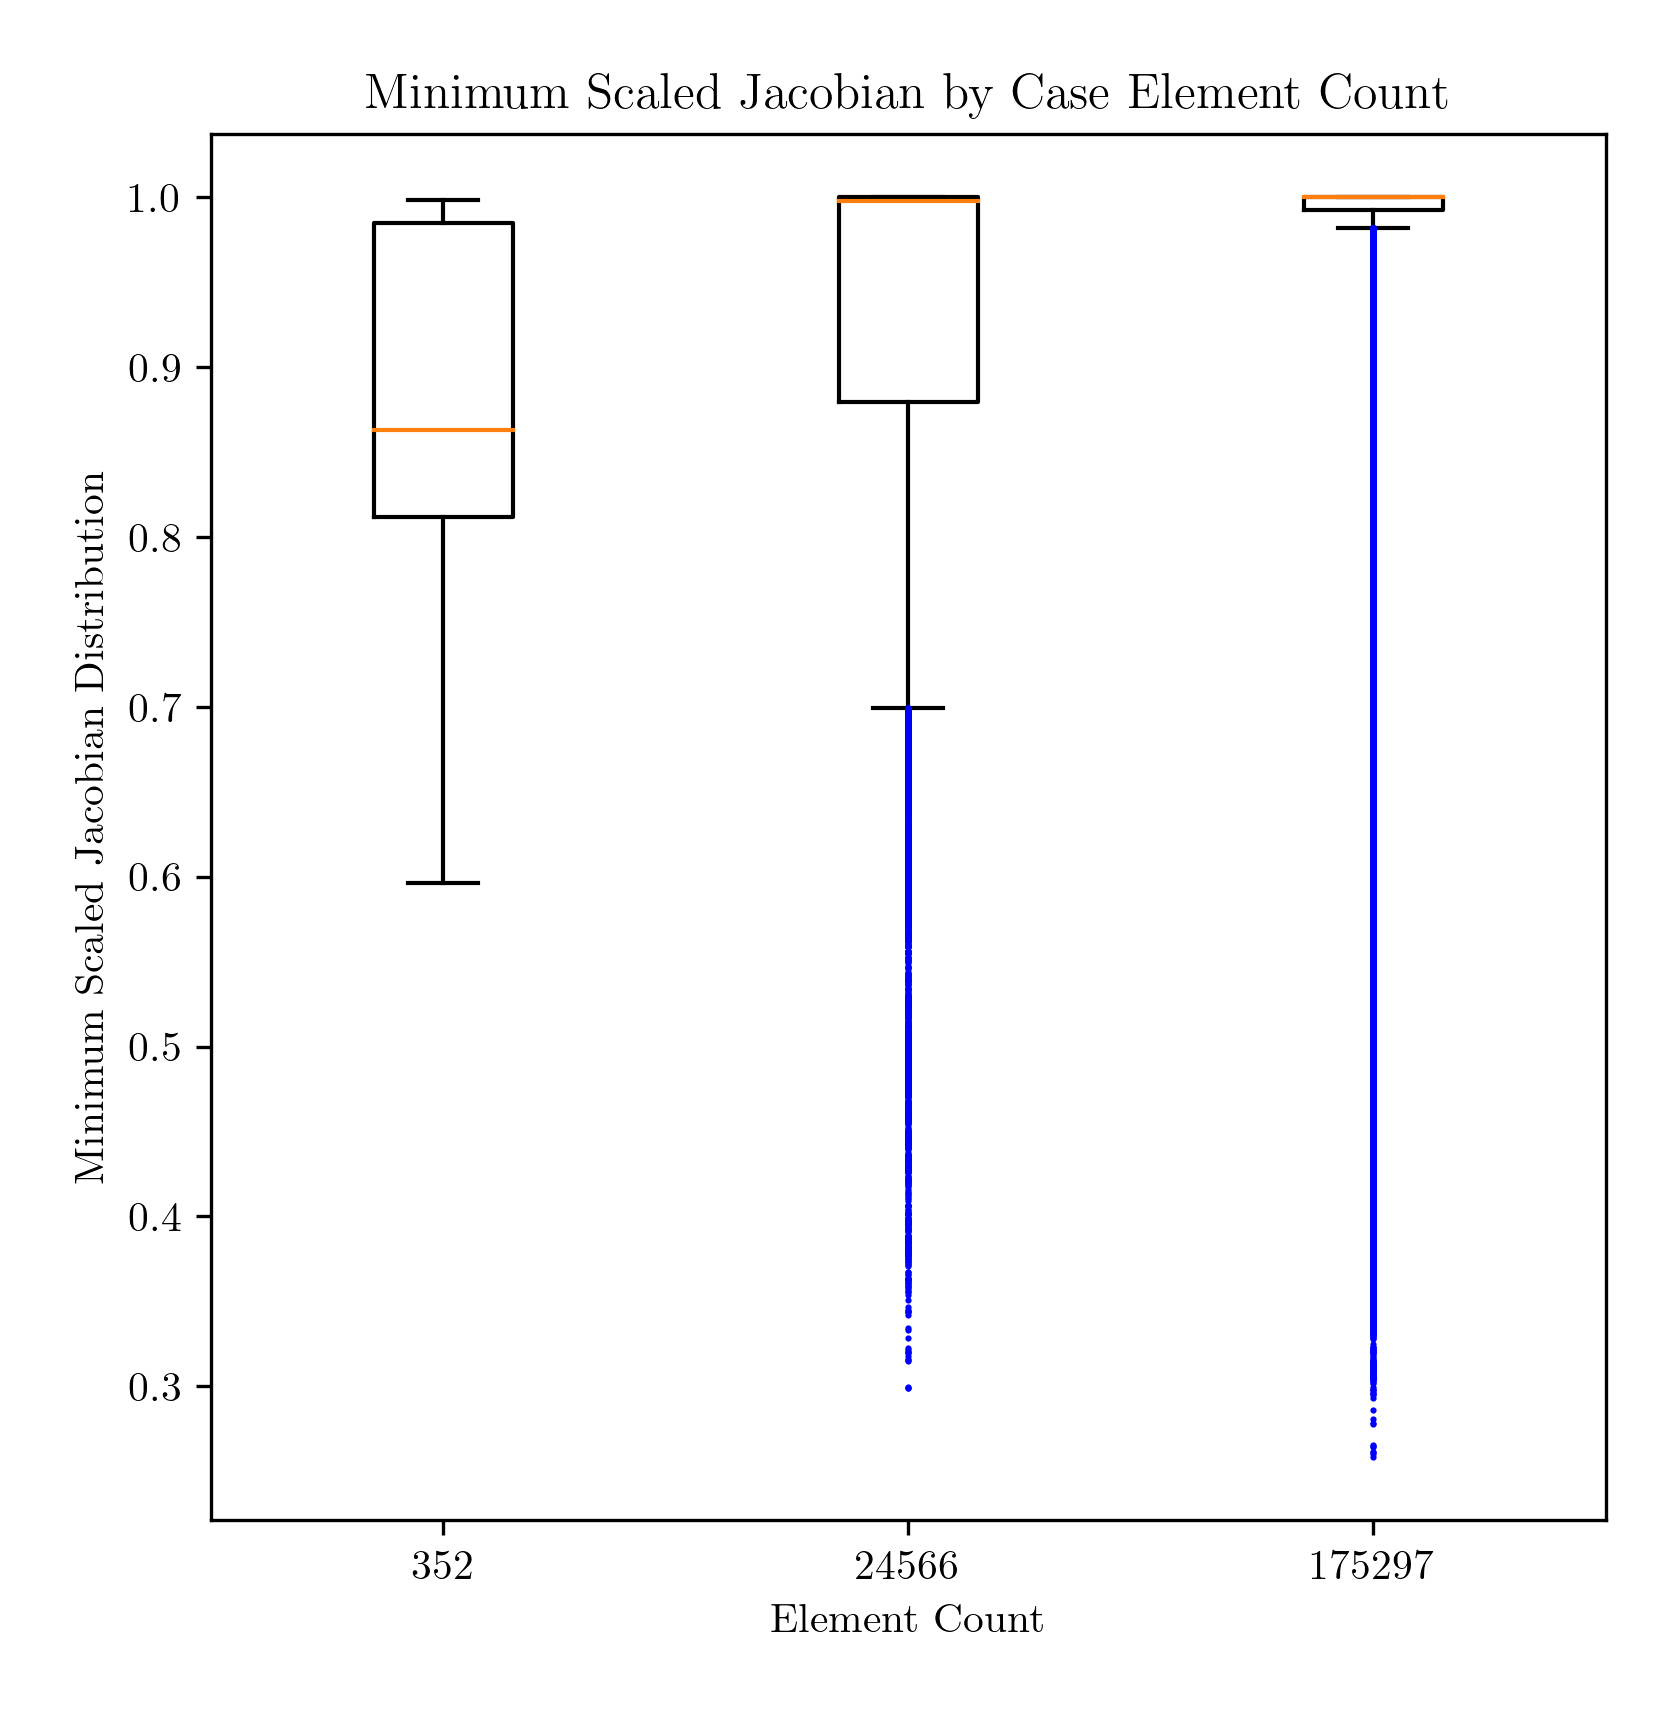
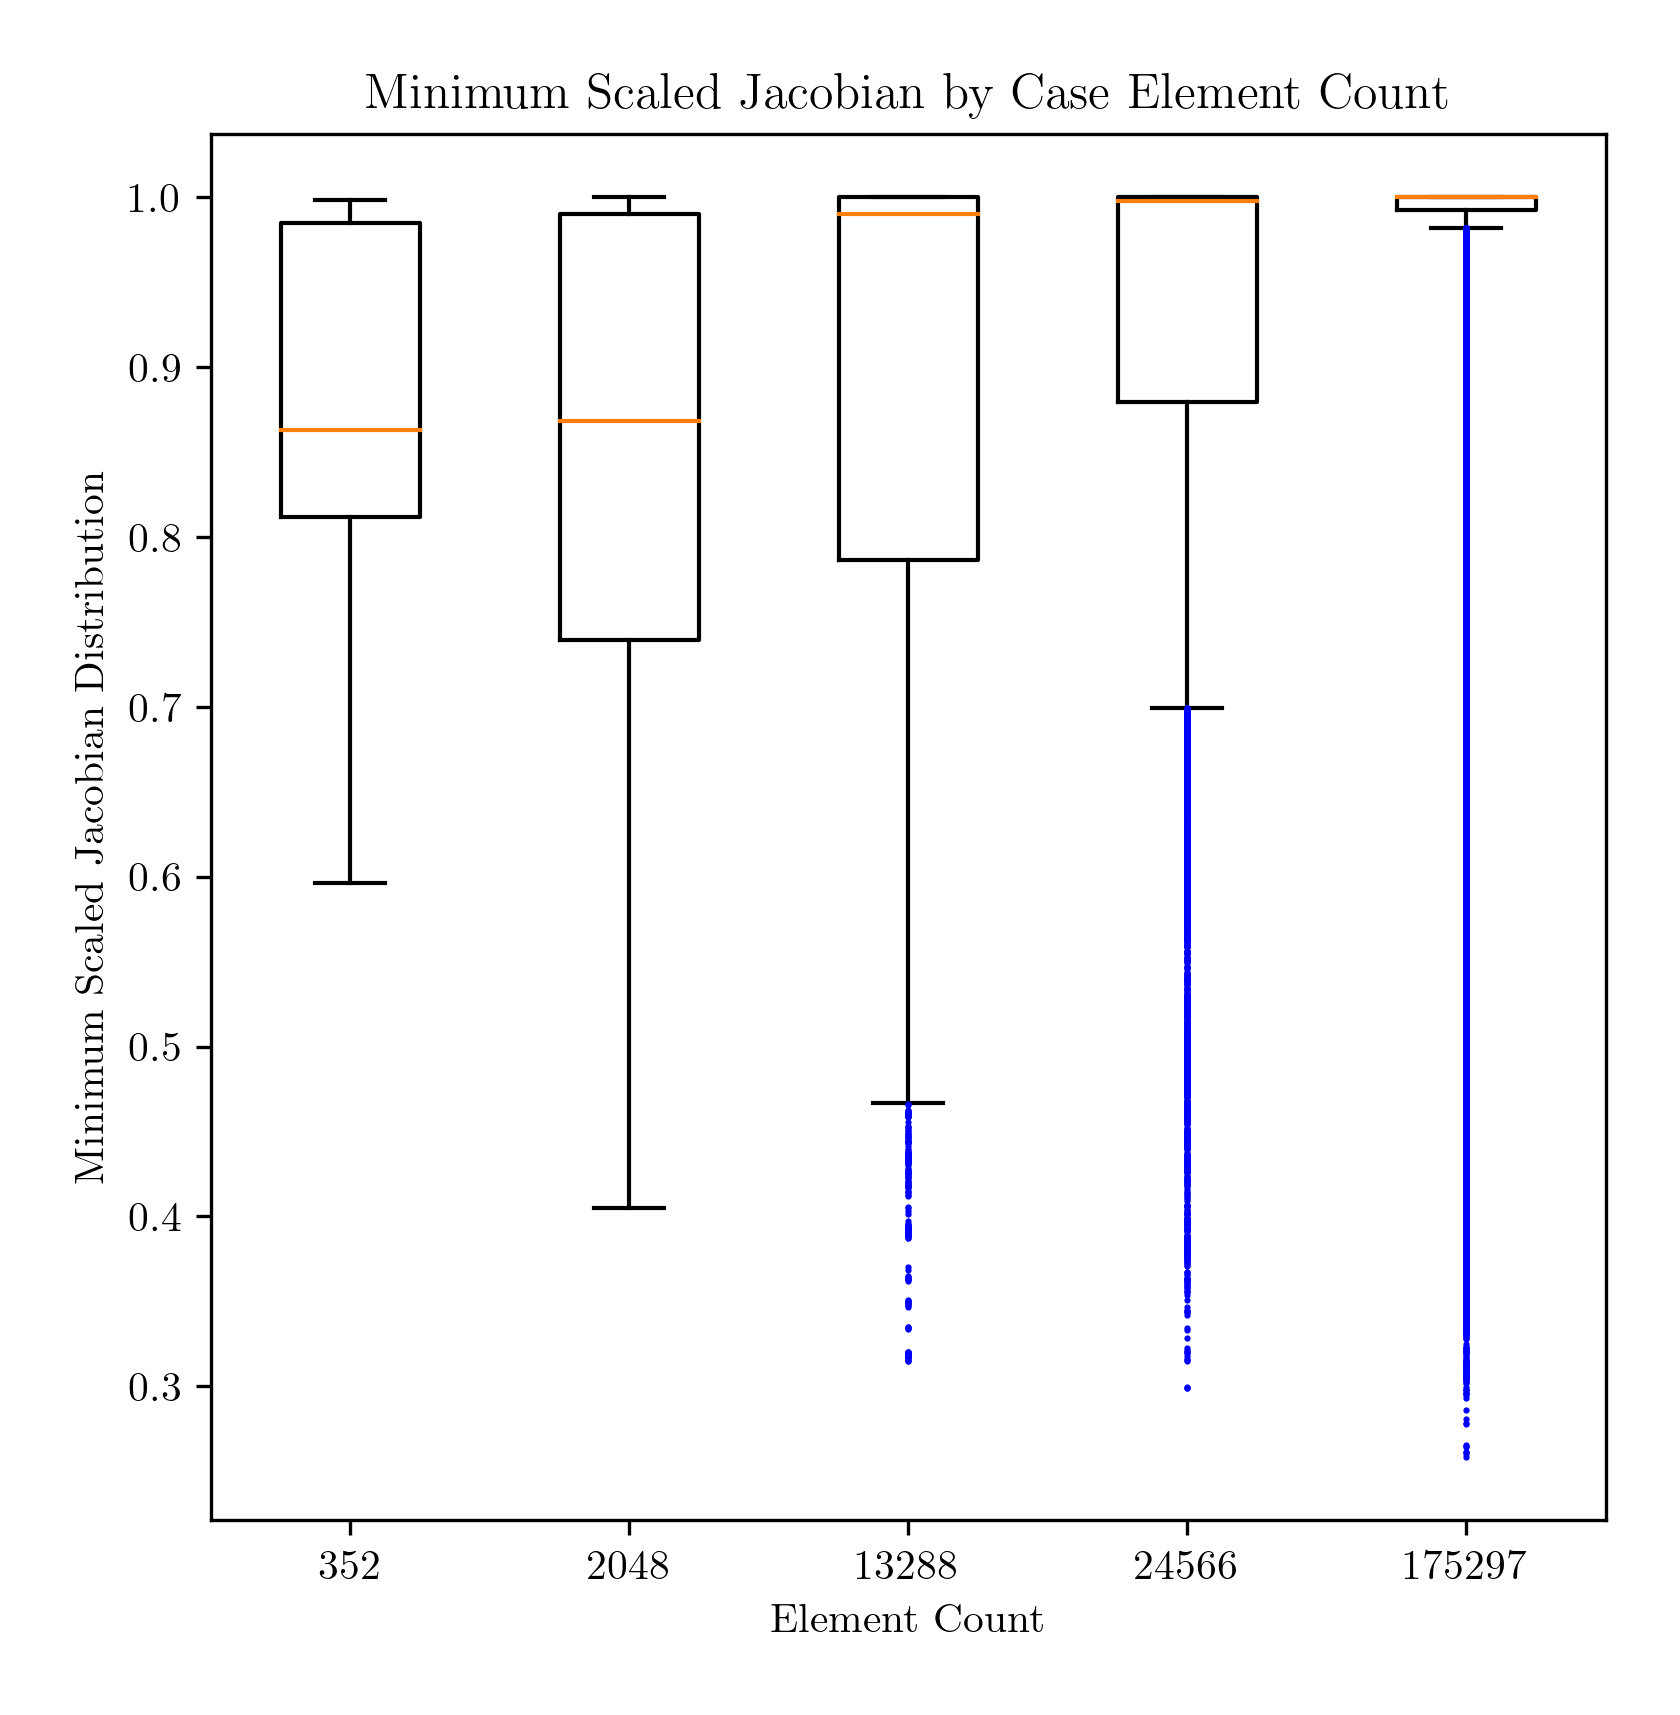
docs for 2 more studies

diff --git a/doc/box_plots.py b/doc/box_plots.py
@@ -29,6 +29,8 @@ def main():
     # user input begin
     path_file_data = (
         "~/Downloads/0010_minsj.csv",
+        "~/Downloads/0020_minsj.csv",
+        "~/Downloads/0040_minsj.csv",
         "~/Downloads/0050_minsj.csv",
         "~/Downloads/0100_minsj.csv",
     )

diff --git a/doc/sphere_mesh_refinement.md b/doc/sphere_mesh_refinement.md
@@ -28,13 +28,13 @@ We anticipate that a threshold may occur where additional increases in element c
 
 and so on for `cell_nnnn_stl_to_inp.yml` files.
 
-study | 1 | 2 | 3
+study | 1 | 2 | 3 | 4 | 5
 -- | --: | --: | --:
-`.yml` config | [cell_0010_stl_to_inp.yml](sphere_delta_cell/cell_0010_stl_to_inp.yml) | [cell_0050_stl_to_inp.yml](sphere_delta_cell/cell_0050_stl_to_inp.yml) | [cell_0100_stl_to_inp.yml](sphere_delta_cell/cell_0100_stl_to_inp.yml)
-image | ![0010](figs/0010.inp.png) | ![0050](figs/0050.inp.png) | ![0100](figs/0100.inp.png)
+`.yml` config | [cell_0010_stl_to_inp.yml](sphere_delta_cell/cell_0010_stl_to_inp.yml) | [cell_0020_stl_to_inp.yml](sphere_delta_cell/cell_0020_stl_to_inp.yml) | [cell_0040_stl_to_inp.yml](sphere_delta_cell/cell_0040_stl_to_inp.yml) | [cell_0050_stl_to_inp.yml](sphere_delta_cell/cell_0050_stl_to_inp.yml) | [cell_0100_stl_to_inp.yml](sphere_delta_cell/cell_0100_stl_to_inp.yml)
+image | ![0010](figs/0010.inp.png) | ![0020](figs/0020.inp.png) | ![0040](figs/0040.inp.png) | ![0050](figs/0050.inp.png) | ![0100](figs/0100.inp.png)
 n_cells | 10 | 50 | 100
-`filename` | `0010.inp` | `0050.inp` | `0100.inp`
-n_elements | 352 | 24,566 | 175,297
+`filename` | `0010.inp` | `0020.inp` | `0040.inp` | `0050.inp` | `0100.inp`
+n_elements | 352 | 2,048 | 13,288 | 24,566 | 175,297
 
 ### Create minimum scaled Jacobian `.csv` files
 
@@ -45,9 +45,9 @@ python src/atmesh/cubit_inp_to_minsj_csv.py doc/sphere_delta_cell/cell_0010_inp_
 
 and so on for `cell_nnnn_inp_to_minsj_csv.yml` files.
 
-study | 1 | 2 | 3
--- | --: | --: | --:
-`.yml` config | [cell_0010_inp_to_minsj_csv.yml](sphere_delta_cell/cell_0010_inp_to_minsj_csv.yml) | [cell_0050_inp_to_minsj_csv.yml](sphere_delta_cell/cell_0050_inp_to_minsj_csv.yml) | [cell_0100_inp_to_minsj_csv.yml](sphere_delta_cell/cell_0100_inp_to_minsj_csv.yml)
+study | 1 | 2 | 3 | 4 | 5
+-- | --: | --: | --: --: | --:
+`.yml` config | [cell_0010_inp_to_minsj_csv.yml](sphere_delta_cell/cell_0010_inp_to_minsj_csv.yml) | [cell_0020_inp_to_minsj_csv.yml](sphere_delta_cell/cell_0020_inp_to_minsj_csv.yml) | [cell_0040_inp_to_minsj_csv.yml](sphere_delta_cell/cell_0040_inp_to_minsj_csv.yml) | [cell_0050_inp_to_minsj_csv.yml](sphere_delta_cell/cell_0050_inp_to_minsj_csv.yml) | [cell_0100_inp_to_minsj_csv.yml](sphere_delta_cell/cell_0100_inp_to_minsj_csv.yml)
 
 ### Create box and whisker plots
 
